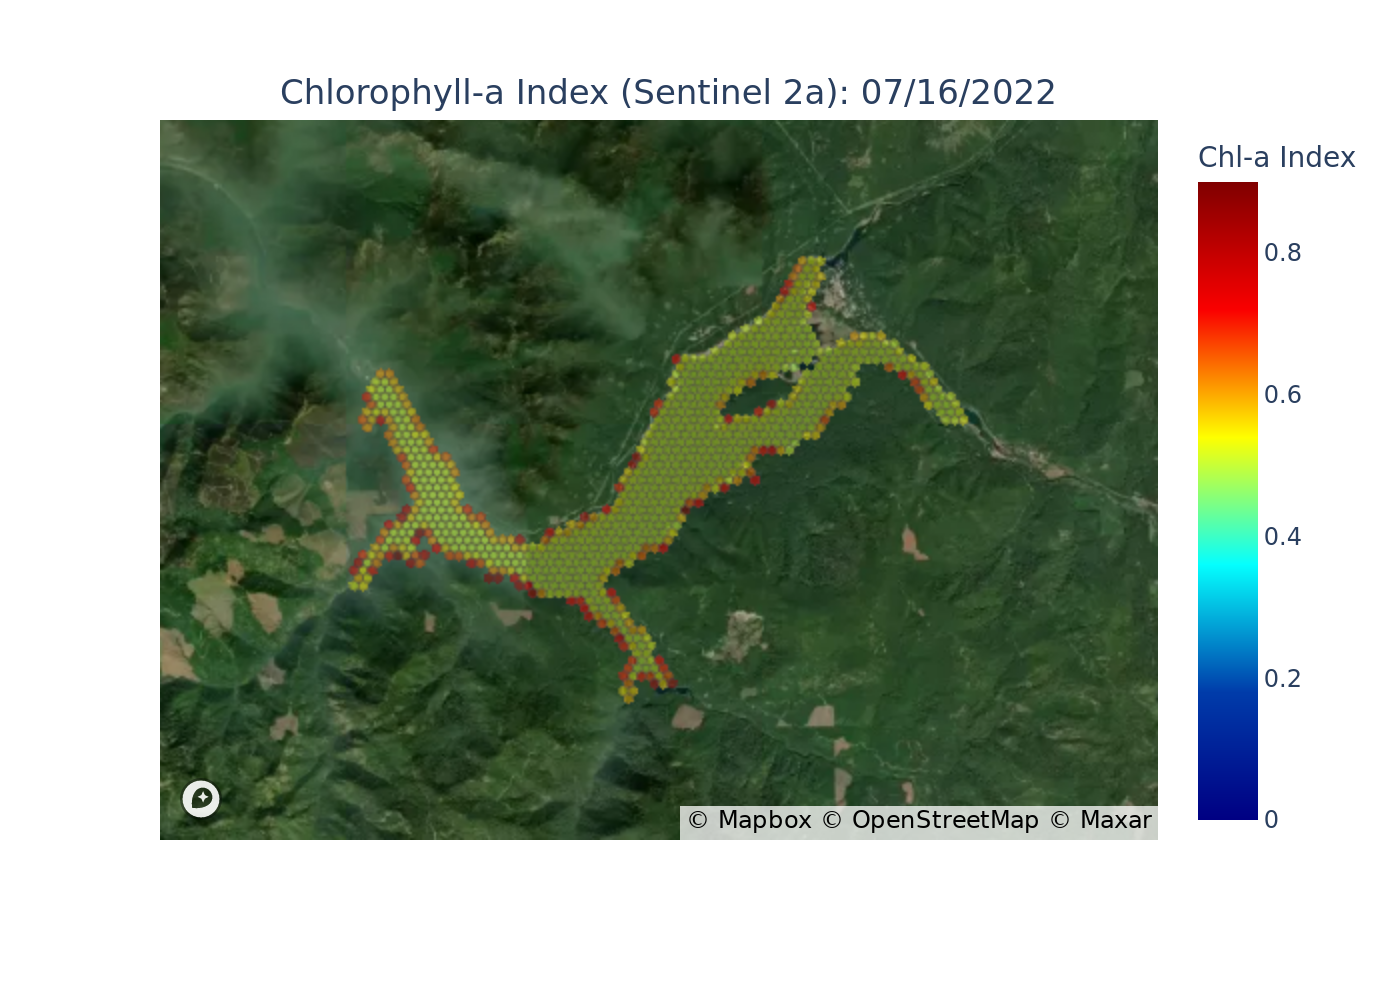
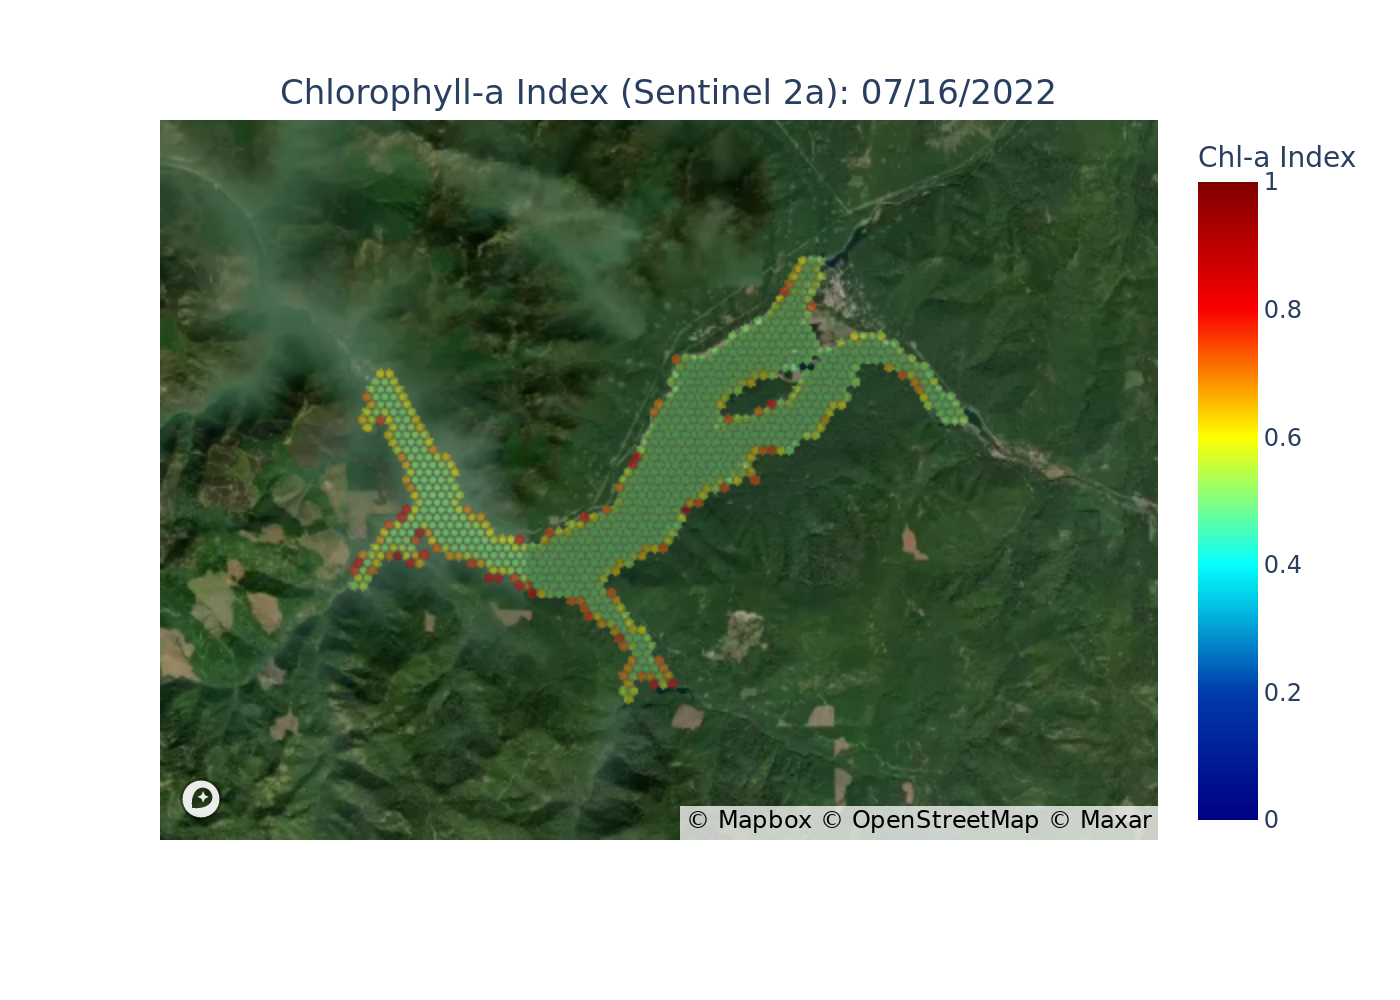
daily blog update

diff --git a/_posts/2022-07-29-blog076.md b/_posts/2022-07-29-blog076.md
@@ -1,0 +1,45 @@
+---
+title: "Jul 29, 2022"
+excerpt: "HAB update"
+image: /assets/images/detroit.jpg
+tags: 
+  - hab
+  - prediction
+---
+
+Click here to see the live and interactive [Harmful Algal Bloom dashboard](https://detroitlake.clrwater.io/).
+
+## 7-day Look Ahead Bloom Forecast
+Below are pie charts describing the __probability of a cyanobacterial bloom__. The one on the left describes the predictions from two weeks ago, and the one on the right describes the latest prediction, for the coming week. 
+![image-center]({{ site.url }}{{ site.baseurl }}/assets/images/20220729/Fig_prediction.png)
+__Probabilities for different levels of cyanobacterial concentrations from two weeks ago (left) and for the next 7 days (right).__
+
+## Hotspot Analysis - Chlorophyll-a
+This map shows you the latest estimates of __chlorophyll-a__ from the Sentinel 2a satellite. Note that the color scale is normalized to highlight the hotspots in the image relative to yearly maxima and minima. The colorscale does not provide an indication of the absolute amount of chlorophyll-a in the water and should be interpreted as an "index" of chlorophyll-a.
+![image-center]({{ site.url }}{{ site.baseurl }}/assets/images/20220729/Fig_chla.png){: .align-center}
+<br clear="all" />
+__Latest chlorophyll-a map from the Sentinel 2a satelllite.__
+
+## Hotspot Analysis - CyAN
+This map shows you the latest estimates of the concentration of cyanobacteria (cells/ml) from the EPA CyAN program.
+![image-center]({{ site.url }}{{ site.baseurl }}/assets/images/20220729/Fig_cyan.png){: .align-center}
+<br clear="all" />
+__Latest CyAN map from the EPA.__
+
+
+## Where we are in the season
+This plot shows the __historical expectation for HAB risk__ over the year. Use this chart to see where we are in the season (identified by the vertical red line). 
+![image-center]({{ site.url }}{{ site.baseurl }}/assets/images/20220729/Fig_climatology.png){: .     align-center}
+__Harmful algal bloom risk over the year__.
+
+## How rainy has it been? 
+We know that in general certain weather conditions promote the likelihood of HABs. Check this chart to see 
+how __wet__ it is, relative to past years. This is simply adding up each day's rainfall, for each year. If the red line is below the orange line, then this year is dryer than average.
+![image-center]({{ site.url }}{{ site.baseurl }}/assets/images/20220729/Fig_precip_cumsum.png){: .     align-center}
+__Precipitation at the lake compared to previous years__.
+
+## How hot has it been? 
+We know that in general certain weather conditions promote the likelihood of HABs. Check this chart to see 
+how __hot__ it is, relative to past years. This is simply adding up each day's temperature, for each year. If the red line is above the orange line, this year is hotter than average.
+![image-center]({{ site.url }}{{ site.baseurl }}/assets/images/20220729/Fig_temp_cumsum.png){: .     align-center}
+__Air temperature at the lake compared to previous years__.
